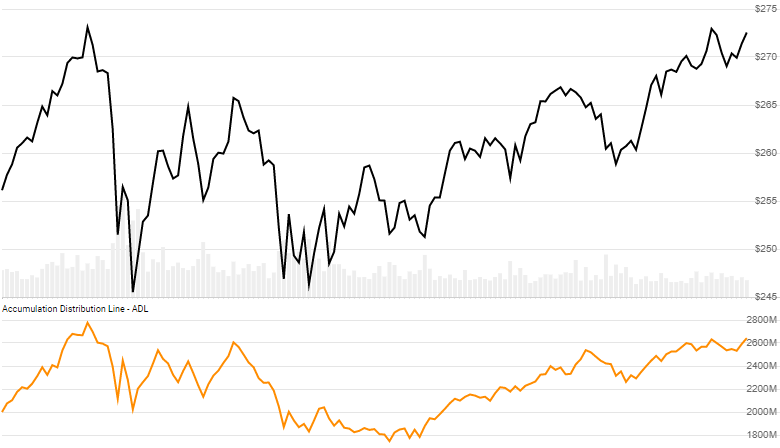
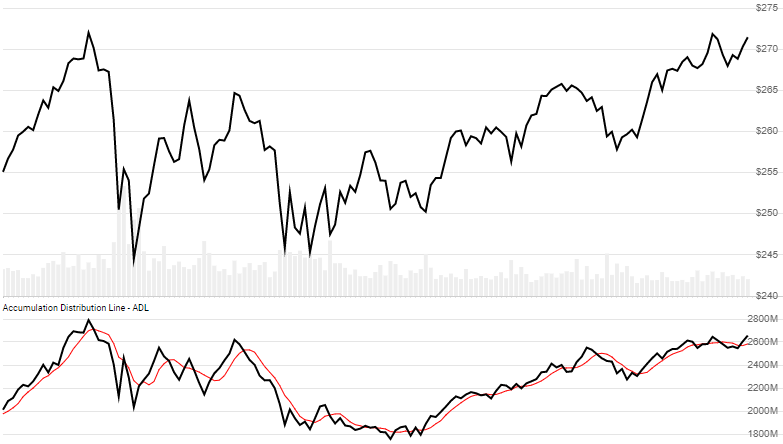
update ADL, OBV charts

diff --git a/indicators/Adl/README.md b/indicators/Adl/README.md
@@ -8,7 +8,7 @@ A rolling accumulation of Chaikin Money Flow Volume.  [More info ...](https://sc
 // usage
 IEnumerable<AdlResult> results = Indicator.GetAdl(history);  
 
-// usage with optional overlay SMA of ADL (not shown above)
+// usage with optional overlay SMA of ADL (shown above)
 IEnumerable<AdlResult> results = Indicator.GetAdl(history,smaPeriod);  
 ```
 

diff --git a/indicators/Obv/README.md b/indicators/Obv/README.md
@@ -8,7 +8,7 @@ A rolling accumulation of volume based on Close price direction.  [More info ...
 // usage
 IEnumerable<ObvResult> results = Indicator.GetObv(history);
 
-// usage with optional overlay SMA of OBV (not shown above)
+// usage with optional overlay SMA of OBV (shown above)
 IEnumerable<AdlResult> results = Indicator.GetObv(history,smaPeriod);  
 ```
 
